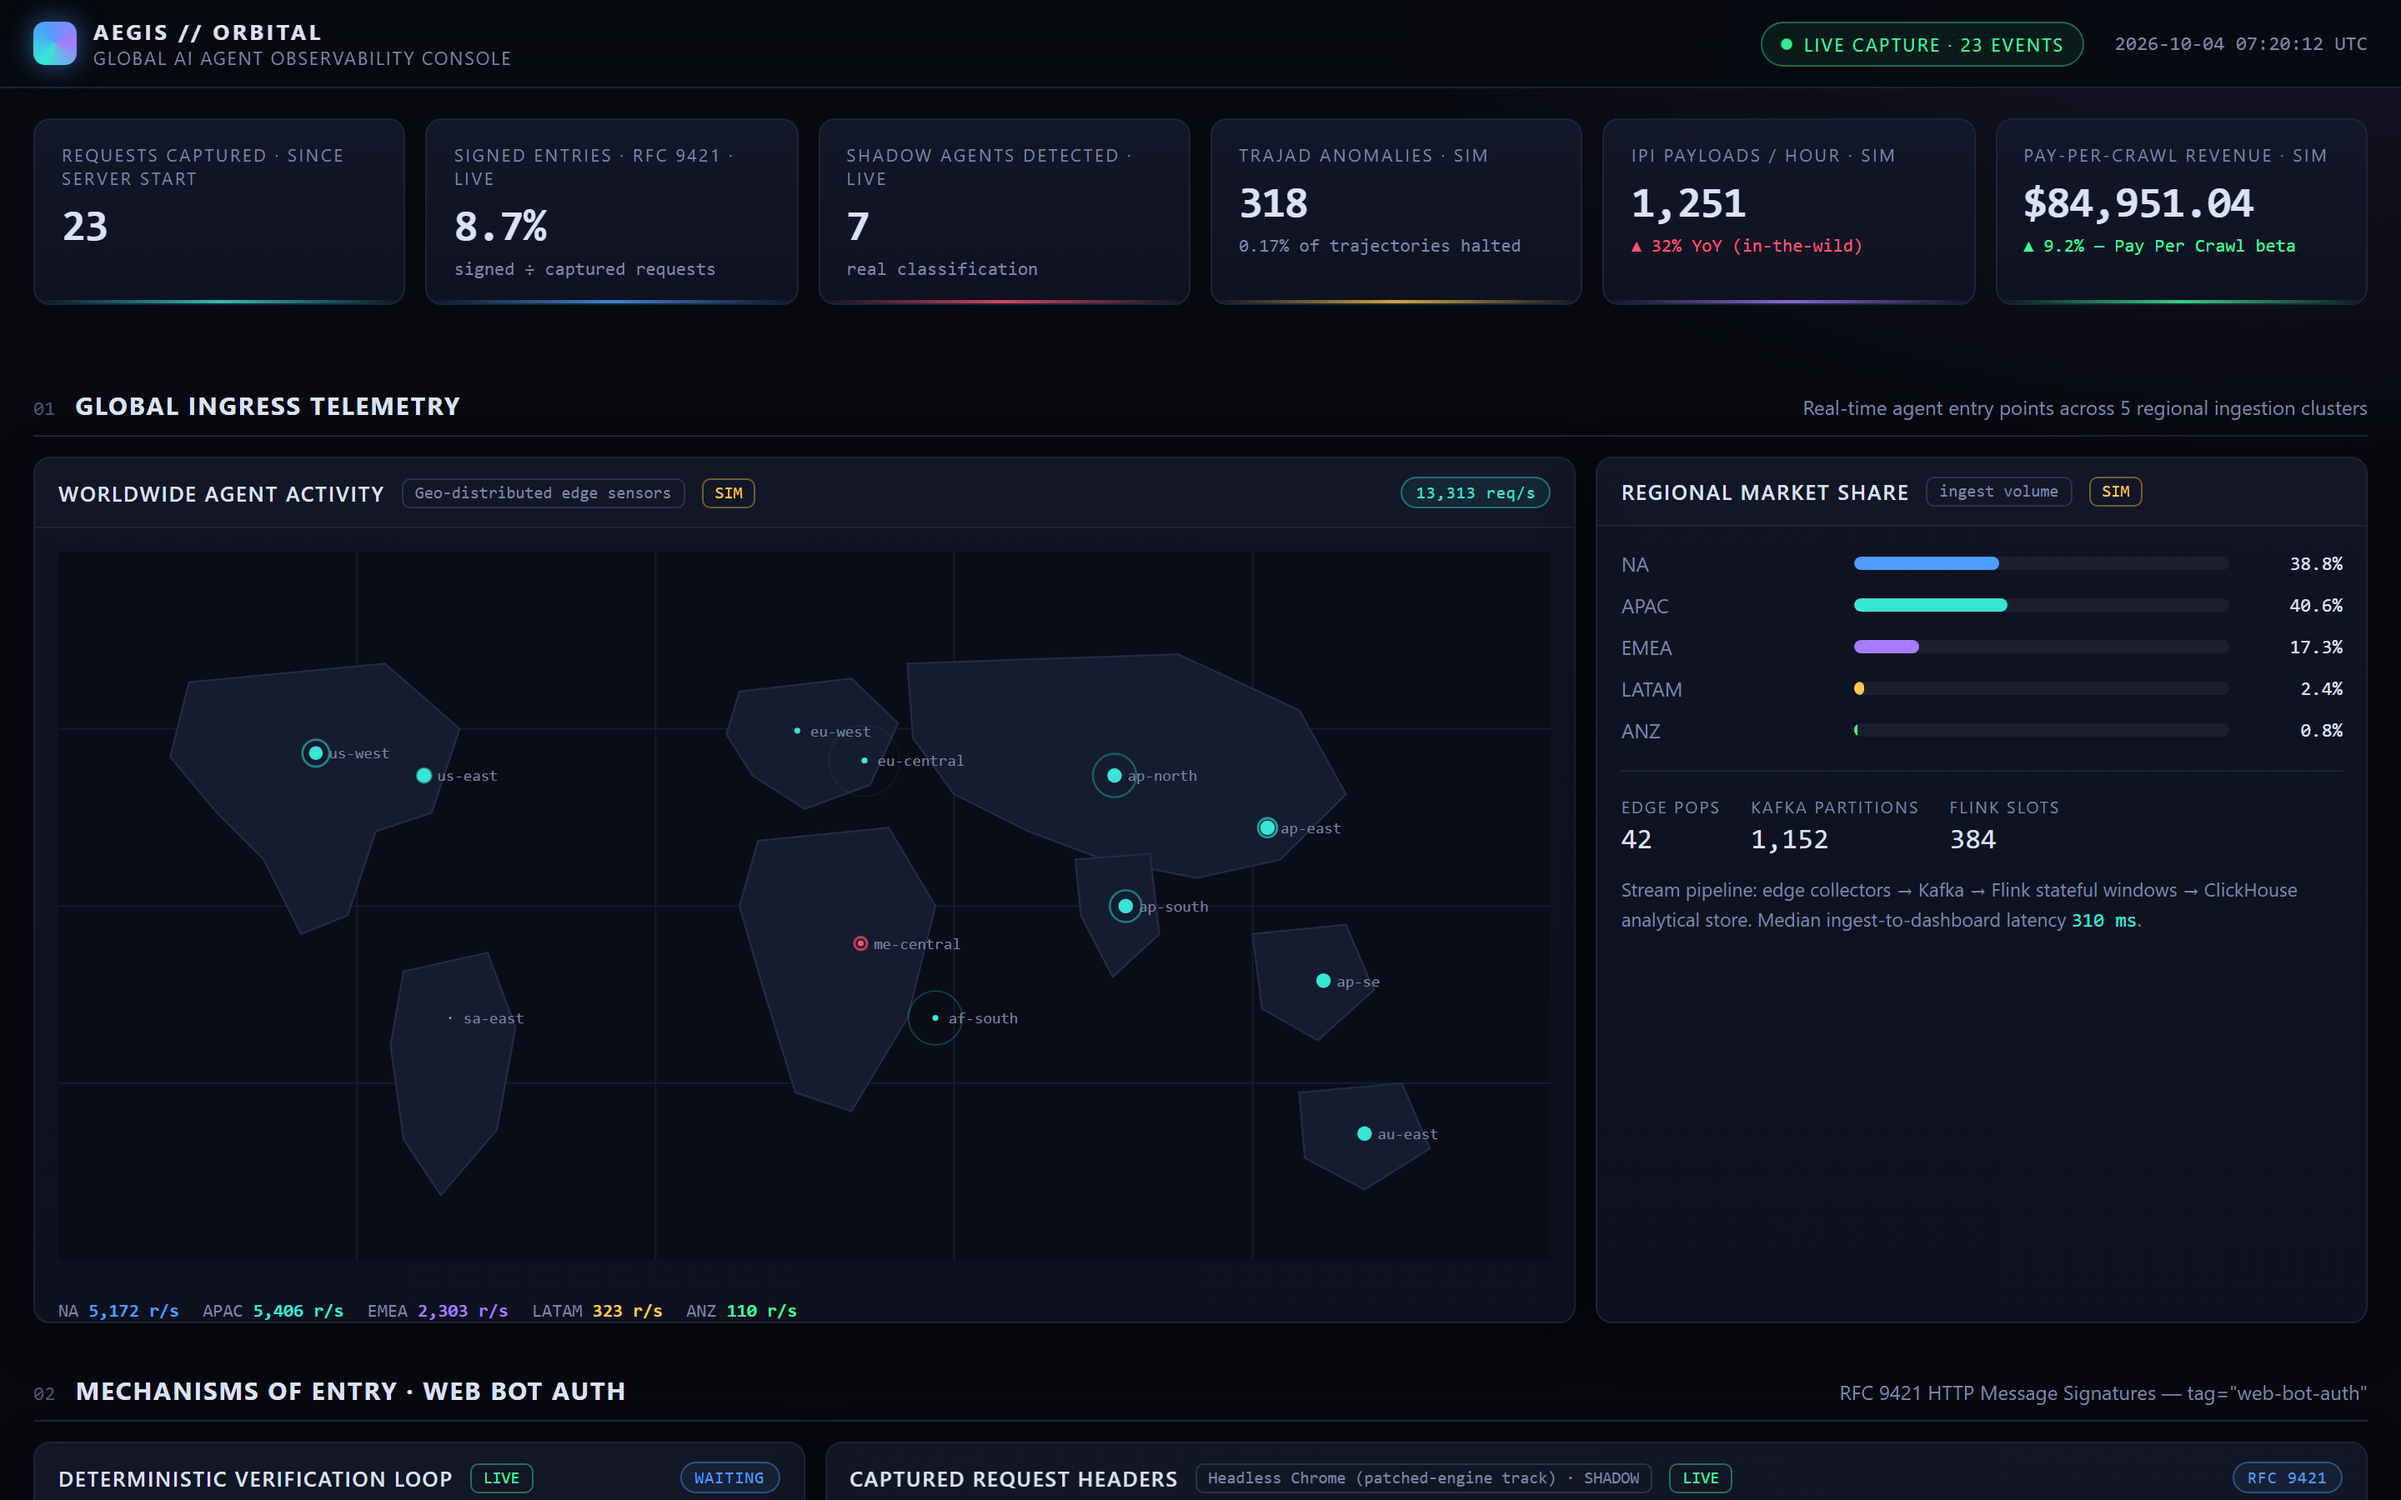
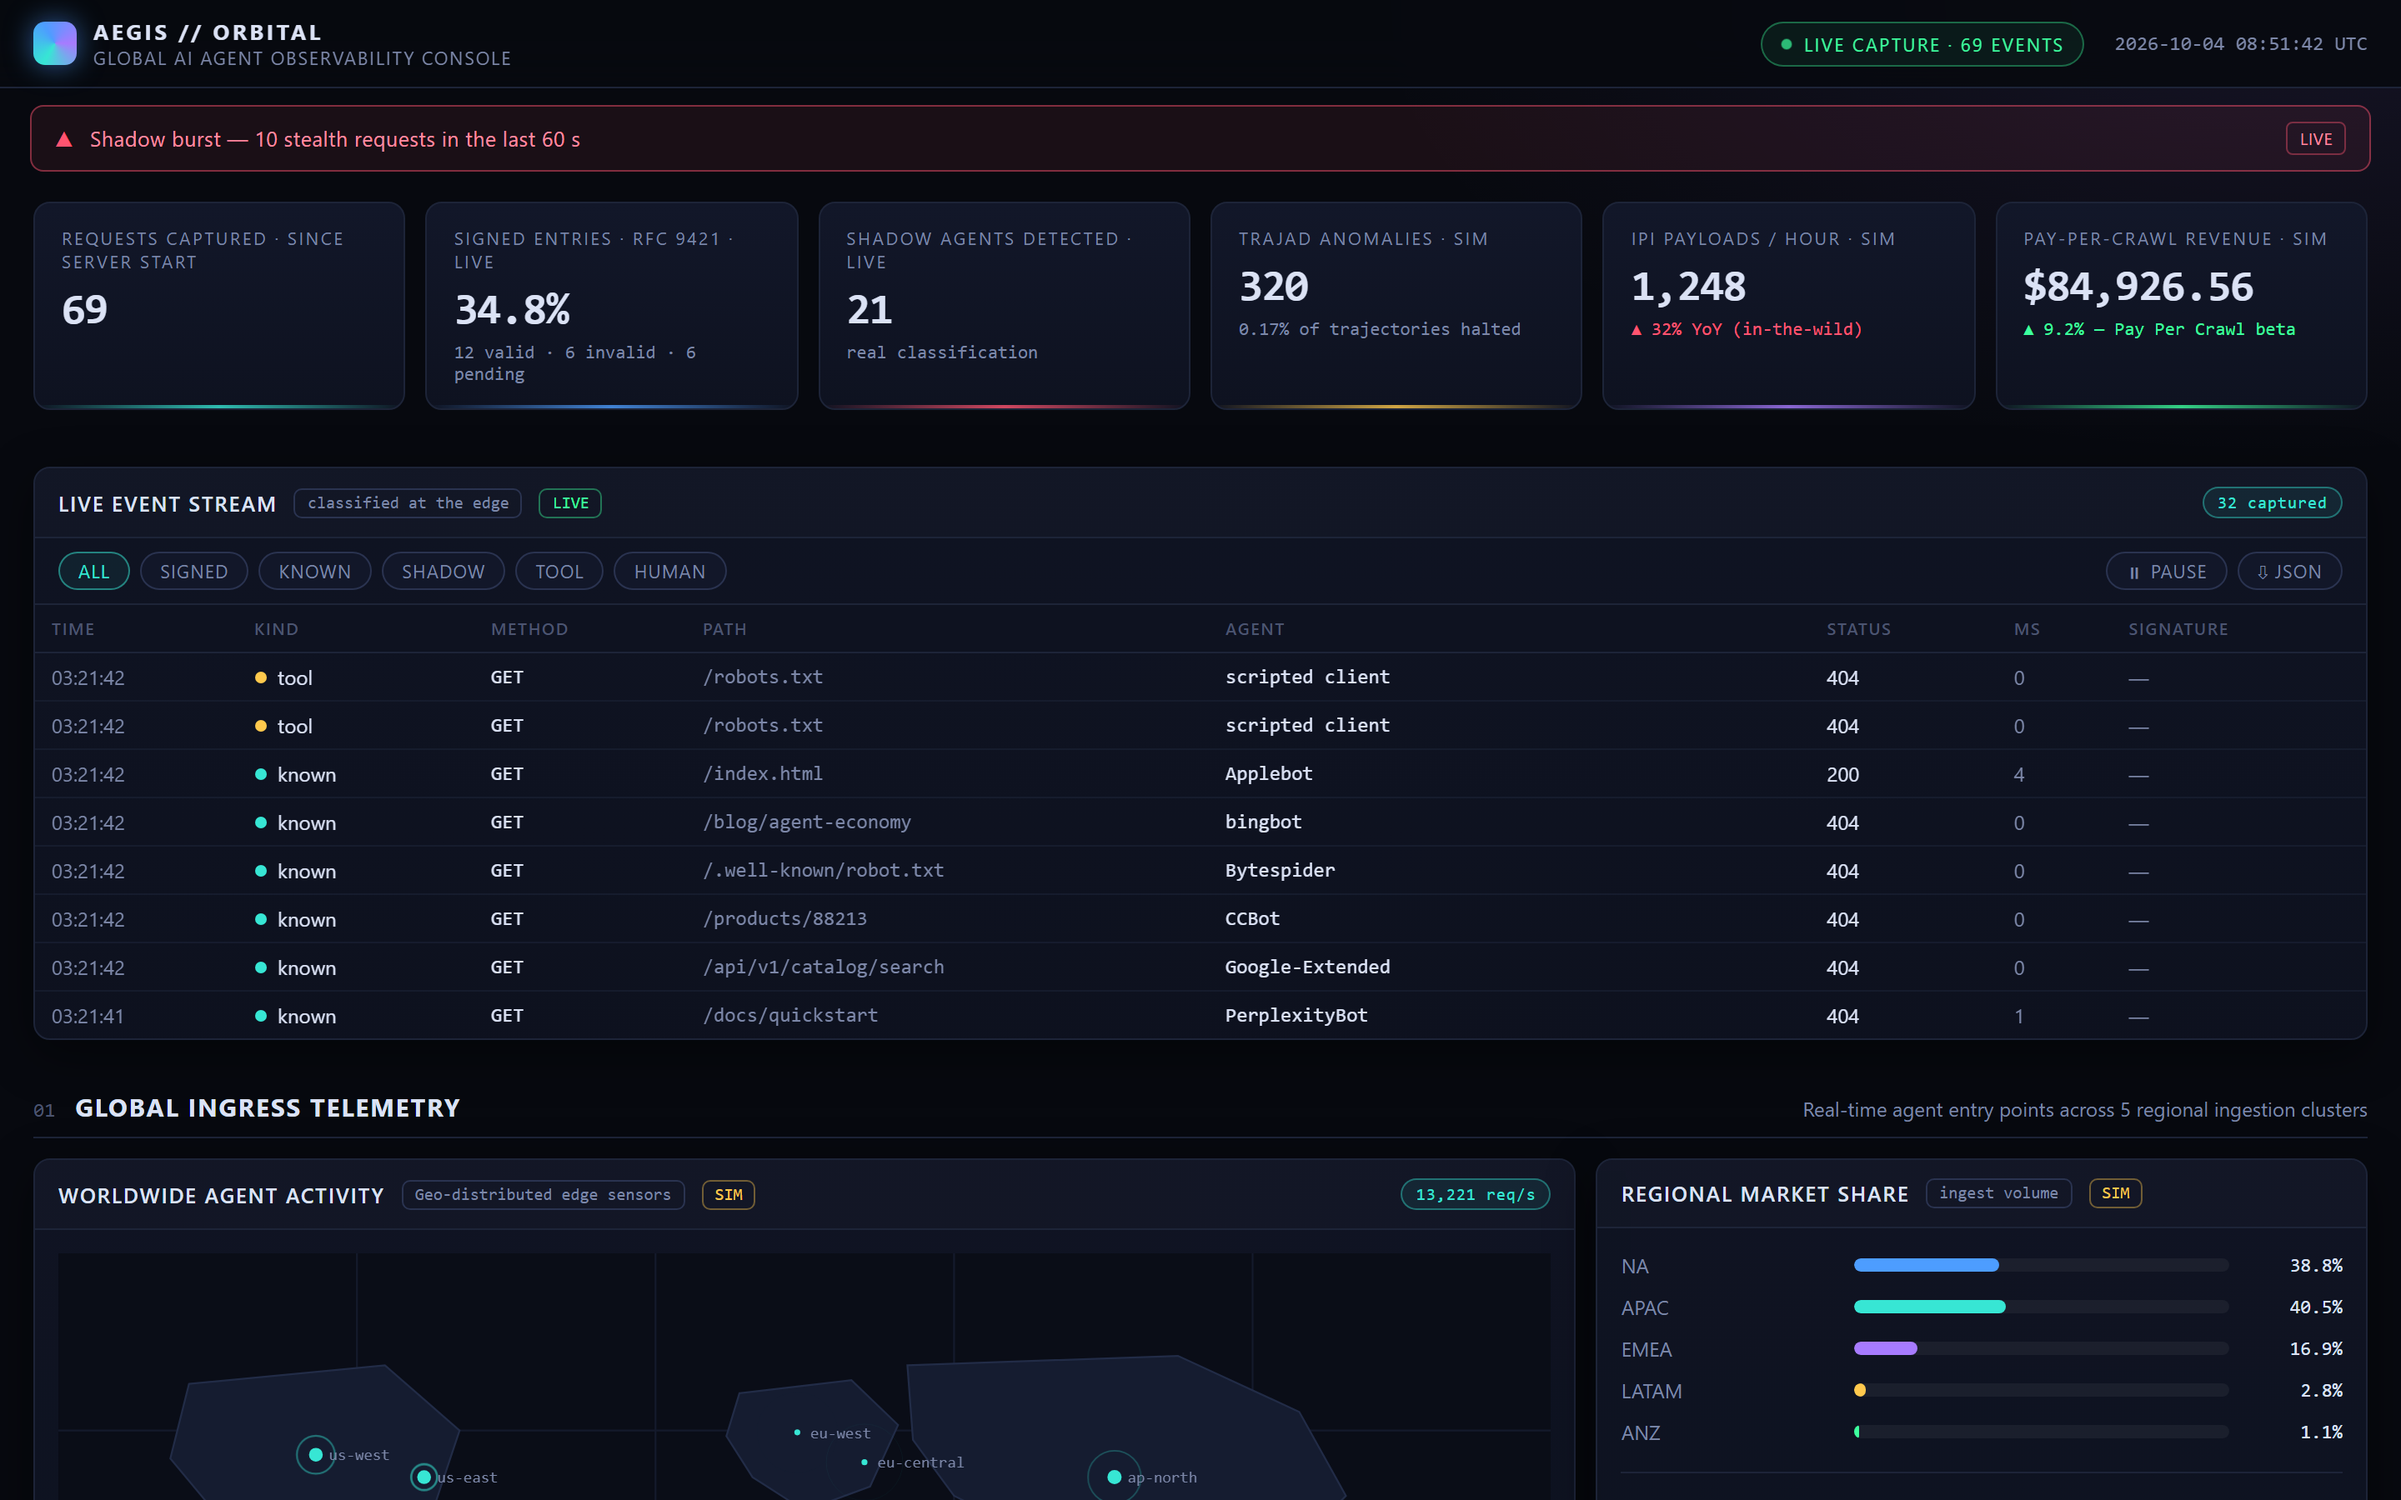
feat(demo): deterministic traffic driver with real signed requests
Reproducing the dashboard story by hand was slow and non-deterministic.
scripts/demo-traffic.js generates an ephemeral Ed25519 JWKS, then drives
a fixed script of valid, wrong-key, ghost-key, shadow, known-agent,
tool, and human traffic — yielding 6 valid / 3 invalid / 3 unresolved
verdicts and tripping the burst banner every run.

Shadow probes use raw node:http (Node's fetch injects accept-language
and sec-fetch-mode, which defeats the browser-claim heuristic), and key
material is gitignored so demo keys can never be committed. Screenshots
re-shot against the resulting live state.

🤖 Generated with Codebuff

diff --git a/scripts/demo-traffic.js b/scripts/demo-traffic.js
@@ -1,0 +1,158 @@
+/* scripts/demo-traffic.js — light up the dashboard with realistic traffic,
+ * including cryptographically signed RFC 9421 requests.
+ *
+ * Usage:
+ *   JWKS_PATH=.demo-jwks.json node server.js   # terminal 1
+ *   node scripts/demo-traffic.js               # terminal 2
+ *
+ * Generates an ephemeral Ed25519 keypair, publishes the public half to
+ * .demo-jwks.json (the server reloads JWKS_PATH whenever the file changes),
+ * then fires:
+ *   - validly signed requests        → verdict VALID
+ *   - requests signed with the wrong key, claiming a known kid → INVALID
+ *   - requests signed by a key that is not in the keyring      → UNRESOLVED
+ *   - shadow / known-bot / tool / human traffic
+ *
+ * The shadow burst is intentionally large enough to trip the dashboard's
+ * burst detector.
+ */
+"use strict";
+const crypto = require("node:crypto");
+const fs = require("node:fs");
+const http = require("node:http");
+const path = require("node:path");
+
+const PORT = Number(process.env.PORT) || 8788;
+const BASE = process.env.BASE_URL || `http://127.0.0.1:${PORT}`;
+const JWKS_OUT = process.env.JWKS_PATH || path.join(process.cwd(), ".demo-jwks.json");
+const sleep = (ms) => new Promise((r) => setTimeout(r, ms));
+
+/* ── keys ─────────────────────────────────────────────────── */
+const pair = crypto.generateKeyPairSync("ed25519");
+const pubJwk = { ...pair.publicKey.export({ format: "jwk" }), kid: "demo-agent-1", alg: "ed25519" };
+fs.writeFileSync(JWKS_OUT, JSON.stringify({ keys: [pubJwk] }, null, 2));
+console.log(`[demo] public JWKS written → ${JWKS_OUT}`);
+
+const stranger = crypto.generateKeyPairSync("ed25519"); // never published → UNRESOLVED
+const wrongKey = crypto.generateKeyPairSync("ed25519"); // published kid, wrong bytes → INVALID
+
+/* ── RFC 9421 signing (mirrors the verifier's base format) ── */
+function signHeaders(urlPath, { key = pair.privateKey, kid = "demo-agent-1", signPath = null } = {}) {
+  const now = Math.floor(Date.now() / 1000);
+  const input = `("@method" "@path" "@authority");created=${now};keyid="${kid}"`;
+  const qi = urlPath.indexOf("?");
+  const pth = qi === -1 ? urlPath : urlPath.slice(0, qi);
+  const base = [
+    `"@method": GET`,
+    `"@path": ${signPath || pth}`,
+    `"@authority": 127.0.0.1:${PORT}`,
+    `"@signature-params": ${input}`,
+  ].join("\n");
+  const sig = crypto.sign(null, Buffer.from(base, "utf8"), key).toString("base64");
+  return {
+    "signature-input": `sig1=${input}`,
+    "signature": `sig1=:${sig}:`,
+    "signature-agent": `https://demo.local/.well-known/http-message-signatures-directory#kid=${kid}`,
+  };
+}
+
+/* ── traffic plan ─────────────────────────────────────────── */
+const KNOWN_UAS = [
+  "GPTBot/1.2", "ClaudeBot/1.0", "PerplexityBot/1.0", "Google-Extended",
+  "CCBot/2.0", "Bytespider", "bingbot/2.0", "Applebot/0.1",
+];
+const SHADOW_UAS = [
+  // patched headless engine → automation rule
+  "Mozilla/5.0 (X11; Linux x86_64) AppleWebKit/537.36 (KHTML, like Gecko) HeadlessChrome/128.0.0.0 Safari/537.36",
+  // ordinary-looking Chrome with NO client hints → browser-claim heuristic
+  "Mozilla/5.0 (Windows NT 10.0; Win64; x64) AppleWebKit/537.36 (KHTML, like Gecko) Chrome/128.0.0.0 Safari/537.36",
+  // automation framework in the UA
+  "Mozilla/5.0 (X11; Linux x86_64) AppleWebKit/537.36 (KHTML, like Gecko) Playwright/1.47.0",
+];
+const HUMAN_UAS = [
+  "Mozilla/5.0 (Macintosh; Intel Mac OS X 10_15_7) AppleWebKit/537.36 (KHTML, like Gecko) Chrome/127.0.0.0 Safari/537.36",
+  "Mozilla/5.0 (Windows NT 10.0; Win64; x64; rv:129.0) Gecko/20100101 Firefox/129.0",
+];
+const HUMAN_HINTS = { "sec-ch-ua": '"Chromium";v="127"', "accept-language": "en-US,en;q=0.9", "sec-fetch-mode": "navigate" };
+const PATHS = [
+  "/index.html", "/pricing", "/docs/quickstart", "/api/v1/catalog/search",
+  "/products/88213", "/.well-known/robot.txt", "/blog/agent-economy",
+];
+
+async function hit(p, headers = {}) {
+  try { await fetch(BASE + p, { headers }); } catch (e) { console.error("[demo] request failed:", e.message); }
+}
+
+/* Exact-header requests via node:http: undici's fetch always injects
+ * accept-language/sec-fetch-mode, which would mask the browser-claim
+ * heuristic we want to demonstrate. */
+function rawHit(p, headers = {}) {
+  return new Promise((resolve) => {
+    const req = http.request(
+      { host: "127.0.0.1", port: PORT, path: p, method: "GET", headers },
+      (res) => { res.resume(); res.on("end", resolve); }
+    );
+    req.on("error", resolve);
+    req.end();
+  });
+}
+
+async function main() {
+  try {
+    const h = await (await fetch(`${BASE}/api/health`)).json();
+    if (!h.ok) throw new Error("not ok");
+  } catch (e) {
+    console.error(`[demo] cannot reach ${BASE} — start the server first:\n  JWKS_PATH=.demo-jwks.json node server.js`);
+    process.exit(1);
+  }
+  console.log(`[demo] firing traffic at ${BASE} …`);
+
+  const tally = { valid: 0, invalid: 0, unresolved: 0, known: 0, shadow: 0, tool: 0, human: 0 };
+
+  // 1 · honestly signed requests
+  for (let i = 0; i < 6; i++) {
+    const p = PATHS[i % PATHS.length];
+    await hit(p, { "user-agent": "AEGIS-Demo-Agent/1.0", ...signHeaders(p) });
+    tally.valid++; await sleep(80);
+  }
+  // 2 · signature made with the wrong private key but claiming demo-agent-1
+  for (let i = 0; i < 3; i++) {
+    const p = PATHS[(i + 3) % PATHS.length];
+    await hit(p, { "user-agent": "Spoofed-Agent/1.0", ...signHeaders(p, { key: wrongKey.privateKey }) });
+    tally.invalid++; await sleep(80);
+  }
+  // 3 · signed by a key nobody published
+  for (let i = 0; i < 3; i++) {
+    const p = PATHS[(i + 1) % PATHS.length];
+    await hit(p, { "user-agent": "Unknown-Agent/1.0", ...signHeaders(p, { key: stranger.privateKey, kid: "ghost-key-9" }) });
+    tally.unresolved++; await sleep(80);
+  }
+  // 4 · shadow traffic — large enough to trip the burst detector (≥8 / 60 s)
+  for (let i = 0; i < 9; i++) {
+    await rawHit(PATHS[i % PATHS.length], { "user-agent": SHADOW_UAS[i % SHADOW_UAS.length] });
+    tally.shadow++; await sleep(70);
+  }
+  // 5 · known crawlers
+  for (const ua of KNOWN_UAS) {
+    await hit(PATHS[tally.known % PATHS.length], { "user-agent": ua });
+    tally.known++; await sleep(60);
+  }
+  // 6 · scripted tools
+  for (const ua of ["curl/8.5.0", "python-requests/2.31.0", "Go-http-client/2.0", "Wget/1.21"]) {
+    await hit("/robots.txt", { "user-agent": ua });
+    tally.tool++; await sleep(60);
+  }
+  // 7 · humans
+  for (const ua of HUMAN_UAS) {
+    await hit("/pricing", { "user-agent": ua, ...HUMAN_HINTS });
+    tally.human++; await sleep(60);
+  }
+  // 8 · no User-Agent header at all (shadow: missing UA)
+  await rawHit("/");
+  tally.shadow++;
+
+  console.log("[demo] done:", JSON.stringify(tally));
+  console.log("[demo] open the dashboard — expect 6 valid, 3 invalid, 3 unresolved signatures and a shadow-burst banner.");
+}
+
+main();
